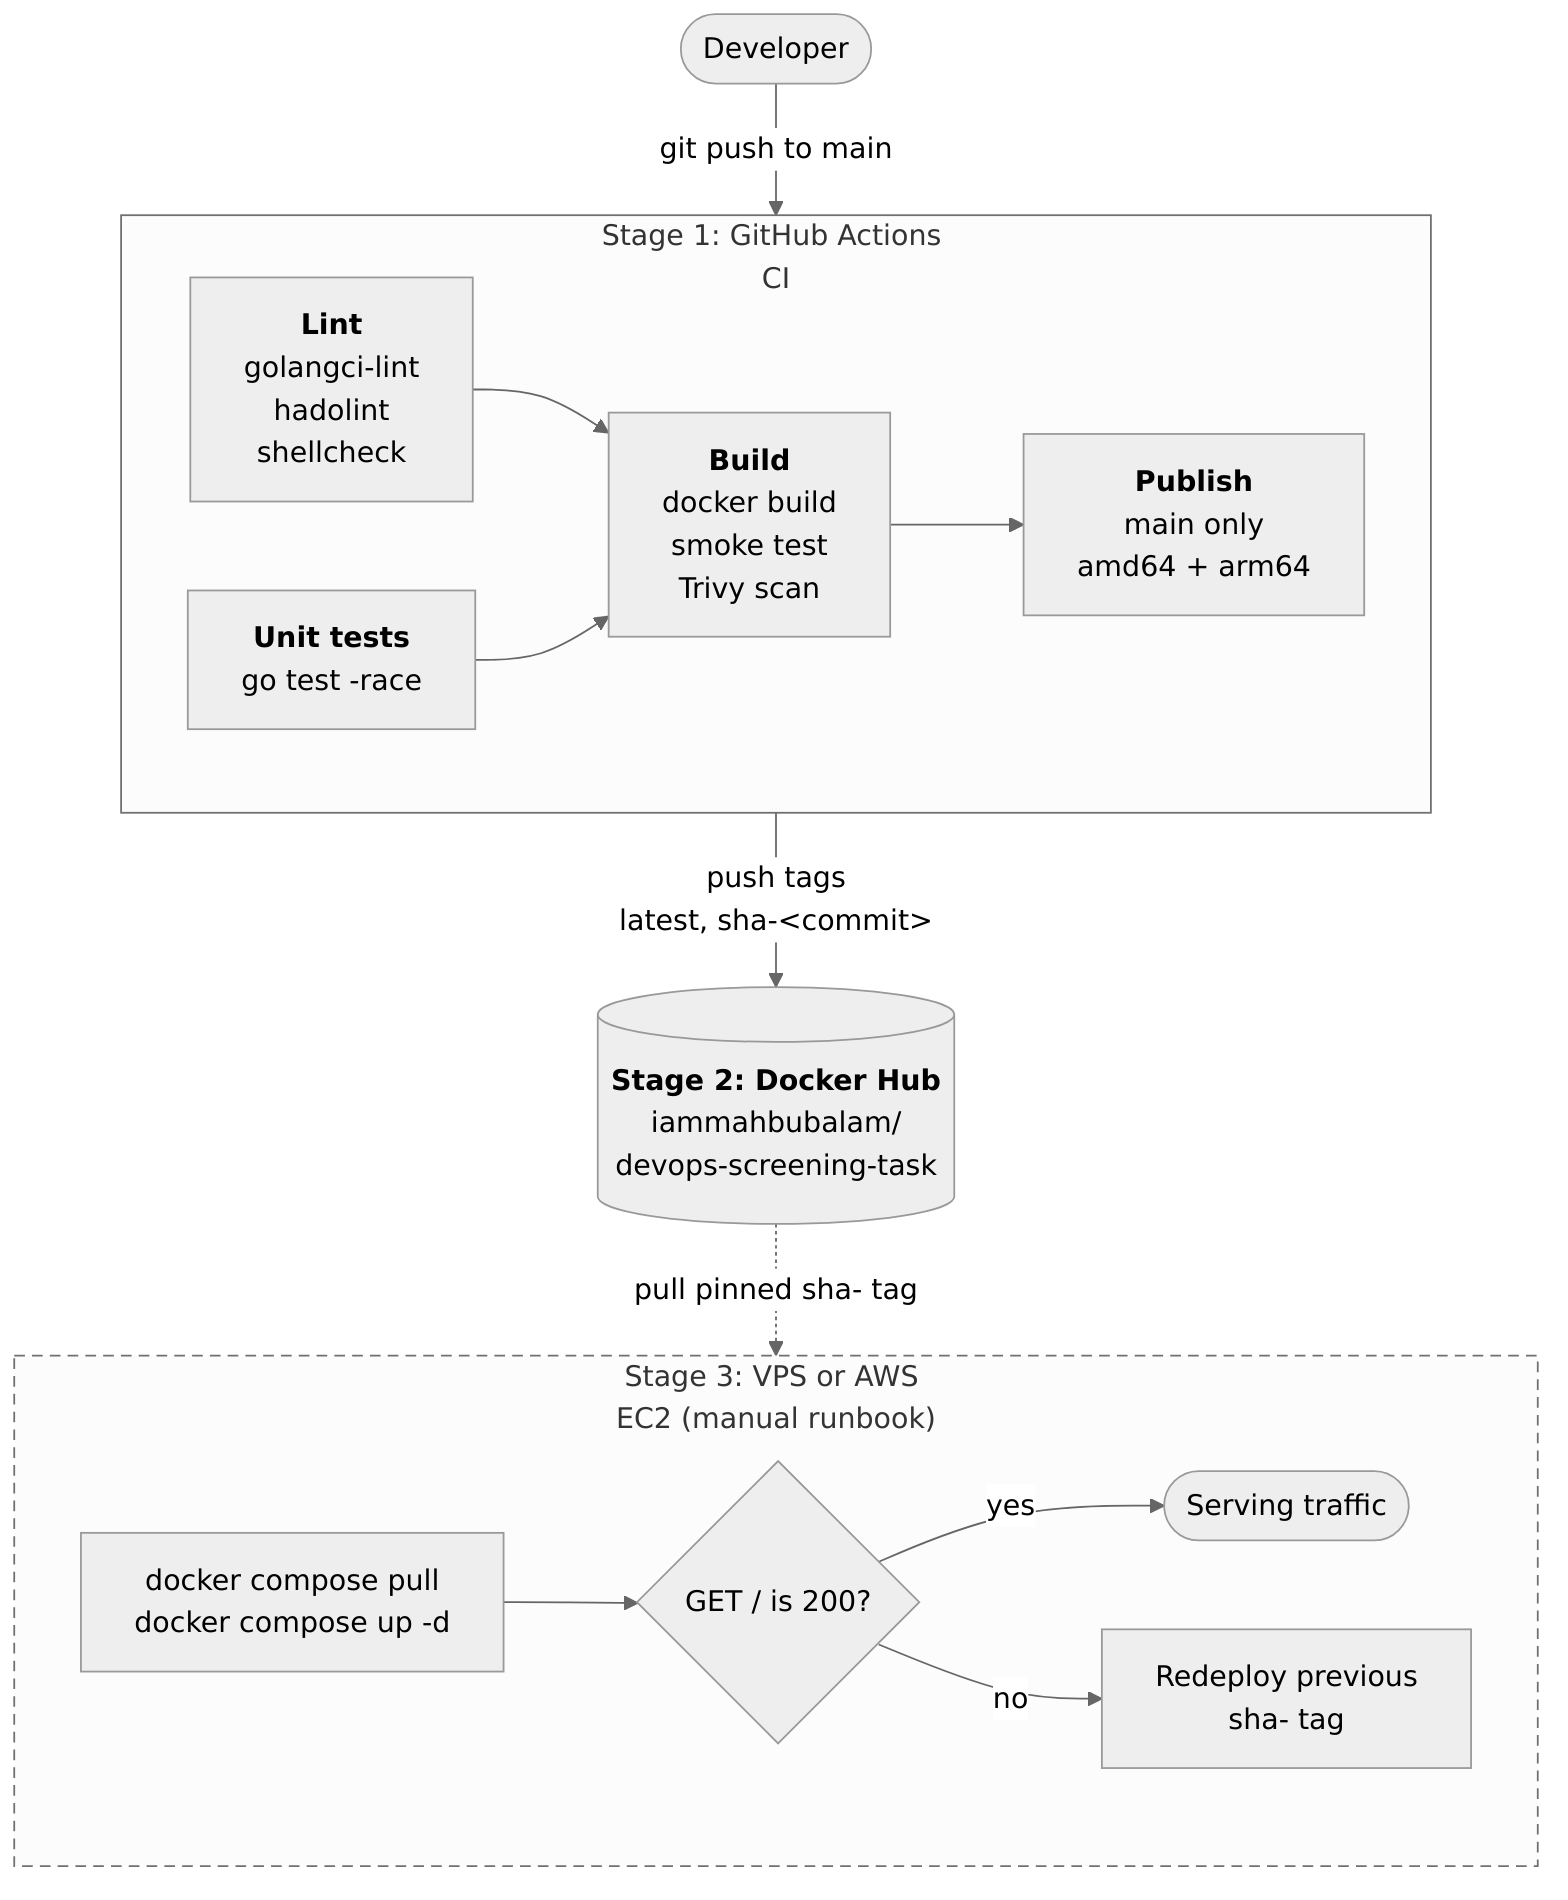
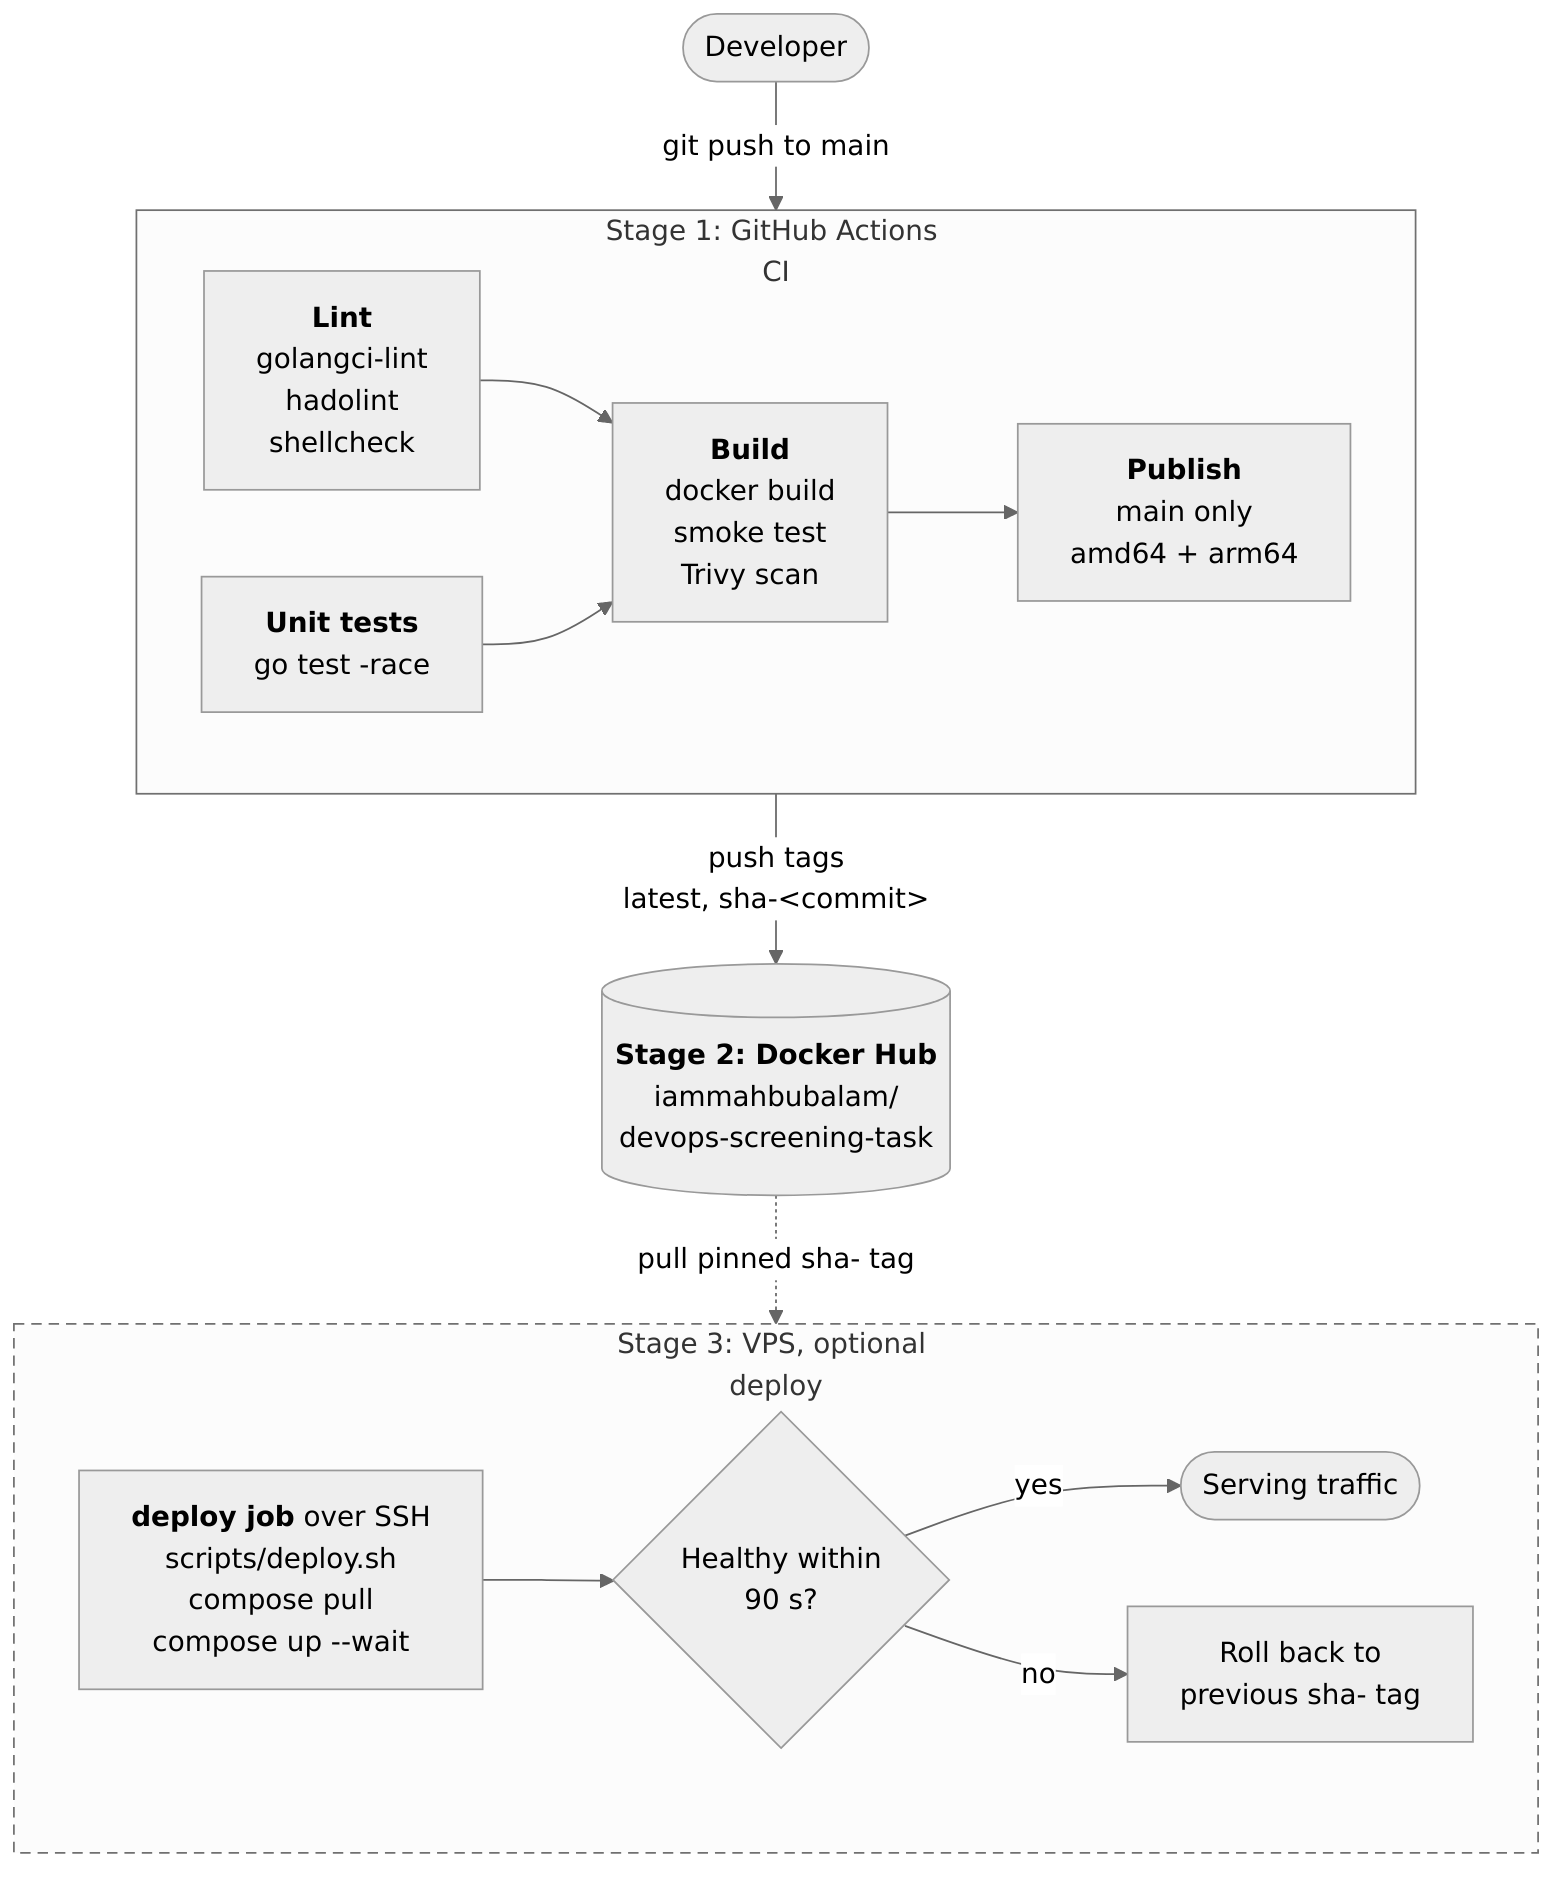
docs: document optional VPS deploy and update pipeline diagram
Adds the setup steps, how rollback works and the limits (brief downtime,
HTTP only, docker group access). Shortens the AWS answer to three bullets.

diff --git a/README.md b/README.md
@@ -20,6 +20,7 @@ It is my submission for the Care Guide DevOps screening task.
 | Diagram: commit → CI → Docker Hub → VPS | [CI/CD pipeline](#cicd-pipeline) |
 | `system_health.sh` writing `health_log.txt`, warning above 80% disk | [scripts/system_health.sh](scripts/system_health.sh) |
 | How I would deploy to AWS | [Deploying to AWS EC2 or a VPS](#deploying-to-aws-ec2-or-a-vps) |
+| Extra, not required: automatic deploy to a VPS over SSH, off by default | [Optional: deploy to a VPS](#optional-deploy-to-a-vps-over-ssh), [scripts/deploy.sh](scripts/deploy.sh), [docker-compose.prod.yml](docker-compose.prod.yml) |
 
 ## Repository layout
 
@@ -34,10 +35,12 @@ It is my submission for the Care Guide DevOps screening task.
 │   └── *_test.go            unit tests
 ├── scripts/
 │   ├── system_health.sh     host health check (Step 3)
-│   └── smoke_test.sh        runs the image and checks the response (used by CI)
+│   ├── smoke_test.sh        runs the image and checks the response (used by CI)
+│   └── deploy.sh            runs on the server: start a tag, health-check it, roll back (optional deploy)
 ├── docs/pipeline.png        pipeline diagram as an image
 ├── Dockerfile
-├── docker-compose.yml
+├── docker-compose.yml       local run, builds the image from source
+├── docker-compose.prod.yml  server run, pulls the image from Docker Hub (optional deploy)
 └── Makefile                 shortcuts for the commands below
 ```
 
@@ -151,12 +154,12 @@ flowchart TB
 
     hub -.->|"pull pinned sha- tag"| vps
 
-    subgraph vps["Stage 3: VPS or AWS EC2 (manual runbook)"]
+    subgraph vps["Stage 3: VPS, optional deploy"]
         direction LR
-        deploy["docker compose pull<br/>docker compose up -d"]
-        check{"GET / is 200?"}
+        deploy["<b>deploy job</b> over SSH<br/>scripts/deploy.sh<br/>compose pull<br/>compose up --wait"]
+        check{"Healthy within<br/>90 s?"}
         live(["Serving traffic"])
-        rollback["Redeploy previous<br/>sha- tag"]
+        rollback["Roll back to<br/>previous sha- tag"]
         deploy --> check
         check -->|yes| live
         check -->|no| rollback
@@ -165,9 +168,9 @@ flowchart TB
     style vps stroke-dasharray: 6 4
 ```
 
-Stages 1 and 2 are automated in [ci.yml](.github/workflows/ci.yml). Stage 3 is drawn dashed because it is a manual step today. The [deployment section](#deploying-to-aws-ec2-or-a-vps) describes how I would automate it.
+Stages 1 and 2 are what the task asks for, and they run on every push to `main`. Stage 3 is drawn dashed because it is an optional extra: it runs only when a server is connected and the repository variable `DEPLOY_ENABLED` is `true`. [Setup is described below](#optional-deploy-to-a-vps-over-ssh).
 
-**Triggers.** Every push to `main` runs all four jobs and publishes the image. Pull requests into `main` run the same checks but skip `publish`, so nothing reaches Docker Hub before review.
+**Triggers.** Every push to `main` runs the four jobs below and publishes the image. Pull requests into `main` run the same checks but skip `publish`, so nothing reaches Docker Hub before review.
 
 | Job | What it does | What it catches |
 |---|---|---|
@@ -175,10 +178,11 @@ Stages 1 and 2 are automated in [ci.yml](.github/workflows/ci.yml). Stage 3 is d
 | `test` | `go test -race -cover` | Wrong responses and routing, data races, broken shutdown |
 | `build` | Builds the image, runs [smoke_test.sh](scripts/smoke_test.sh), scans with Trivy | Images that fail to build, run as root, or don't return the JSON, and HIGH or CRITICAL CVEs that have a fix |
 | `publish` | Builds for amd64 and arm64, then pushes `latest` and `sha-<commit>` with an SBOM and provenance | Runs only on `main`, and only after the three jobs above pass |
+| `deploy` (optional) | Copies the compose file and [deploy.sh](scripts/deploy.sh) to the server over SSH and runs it | Skipped unless `DEPLOY_ENABLED` is `true`, so it never turns the pipeline red on a repo without a server |
 
 Choices in the workflow:
 
-- **Least privilege.** The workflow token can only read the repo, and only the `publish` job sees the Docker Hub token.
+- **Least privilege.** The workflow token can only read the repo. Only the `publish` job sees the Docker Hub token, and only the `deploy` job sees the SSH key.
 - **Pinned actions.** Every third-party action is pinned to a full commit SHA, not a tag, because tags can be moved to other code. That happened in the tj-actions/changed-files compromise in March 2025. Dependabot opens weekly PRs to update the SHAs, the base image digests and Go.
 - **Two image tags.** `sha-<commit>` never changes. A deploy pins it, so every running container maps to one commit and a rollback means redeploying the previous tag. `latest` is only there for convenience.
 - **Fast rebuilds.** Layers are cached in the GitHub Actions cache, so `publish` reuses the amd64 layers that `build` just made.
@@ -245,13 +249,78 @@ $ make
 
 ## Deploying to AWS EC2 or a VPS
 
-- **Provision the host as code.** I would use Terraform to create one `t4g.small` instance. That is AWS Graviton (arm64), which the image already supports, and it costs about 20% less than the matching x86 `t3`. Cloud-init user data installs Docker on first boot. The security group opens only ports 80 and 443. There is no SSH port: admin access goes through AWS Systems Manager Session Manager, using an IAM instance role, so there are no SSH keys to manage or leak.
-- **Deploy from CI with no stored cloud keys.** I would add a `deploy` job after `publish`. It assumes a narrowly scoped IAM role through GitHub OIDC, so the repo holds no long-lived AWS keys. Then it uses SSM `send-command` to run `IMAGE_TAG=sha-<commit> docker compose pull && docker compose up -d` on the instance. Deploying the unchangeable `sha-` tag instead of `latest` means I always know which commit is live, and a rollback is the same command with the previous tag.
-- **Put a safety net around it.** Caddy runs in front of the app as a reverse proxy and gets TLS certificates automatically. It listens on 443 and forwards to the container, which is not exposed publicly. After each deploy, the job polls `GET /` and redeploys the previous tag if the check fails. Container logs go to CloudWatch through the `awslogs` log driver, and `system_health.sh` runs from cron so disk and memory problems show up early. If this ever needs high availability, the next step is ECS Fargate behind an Application Load Balancer, not more hand-run servers.
+- **Ship one exact version.** CI pushes an immutable `sha-<commit>` tag, and the server pulls that tag, never `latest`. Every running container then maps to one commit, and a rollback is a redeploy of the previous tag. The optional `deploy` job below does this.
+- **Keep the host small and closed.** One EC2 `t4g.small` (Graviton, which the multi-arch image already supports, about 20% cheaper than the matching x86 instance), created with Terraform. Cloud-init installs Docker. The security group allows only port 80 or 443, plus SSH from my own IP. In a real AWS setup I would drop SSH keys entirely: GitHub OIDC assumes a scoped IAM role, and SSM runs the deploy command.
+- **Make a bad release harmless.** A deploy counts as done only when the container's health check passes, and otherwise the previous tag comes back automatically. Logs are rotated so they cannot fill the disk, and `system_health.sh` runs from cron to catch disk and memory trouble early. When one server is no longer enough, the next step is ECS Fargate behind an Application Load Balancer, not more hand-run servers.
+
+## Optional: deploy to a VPS over SSH
+
+This goes beyond the task. A server is not needed to review the repo: with no server connected, the `deploy` job is skipped and everything above stays green.
+
+When enabled, the job runs after `publish`. It copies [docker-compose.prod.yml](docker-compose.prod.yml) and [deploy.sh](scripts/deploy.sh) to the server and runs the script with the new `sha-` tag. The script then:
+
+1. pulls the image. If that fails (wrong tag, registry down), it stops and the running release is untouched;
+2. starts the new container with `docker compose up --wait`, which waits for the image's own health check;
+3. on success, records the tag in `.env`, deletes image tags older than the previous one, and exits 0;
+4. on failure, prints the container logs, restarts the previous tag, and exits 1, so the job is red but the site stays up.
+
+**Set it up**
+
+1. On a fresh Ubuntu server, as root. Open port 22 and port 80 in the provider's firewall (on AWS, the security group). Docker's published ports bypass `ufw`, so a host firewall is the wrong place for this.
+
+   ```bash
+   curl -fsSL https://get.docker.com | sh
+   adduser --disabled-password --gecos "" deploy
+   usermod -aG docker deploy
+   install -d -m 700 -o deploy -g deploy /home/deploy/.ssh
+   ```
+
+2. On your machine, make a key used for nothing else, and put the public half on the server:
+
+   ```bash
+   ssh-keygen -t ed25519 -N "" -f deploy_key -C github-actions-deploy
+   cat deploy_key.pub
+   ```
+
+   Then on the server, as root, paste that line in:
+
+   ```bash
+   echo '<the line printed above>' >> /home/deploy/.ssh/authorized_keys
+   chown deploy:deploy /home/deploy/.ssh/authorized_keys && chmod 600 /home/deploy/.ssh/authorized_keys
+   ```
+
+3. Give GitHub what it needs, then delete the local copy of the private key:
+
+   ```bash
+   gh secret set SSH_HOST --body <server-ip-or-hostname>
+   gh secret set SSH_USER --body deploy
+   gh secret set SSH_PRIVATE_KEY < deploy_key
+   ssh-keyscan <server-ip-or-hostname> | gh secret set SSH_KNOWN_HOSTS
+   gh variable set DEPLOY_ENABLED --body true
+   rm deploy_key deploy_key.pub
+   ```
+
+   `SSH_KNOWN_HOSTS` pins the server's host key. If the key ever differs, the job fails instead of connecting to an impostor. For a non-standard SSH port, also run `gh variable set SSH_PORT --body <port>` and use `ssh-keyscan -p <port>`.
+
+4. Push to `main`. When the `deploy` job is green, `curl http://<server-ip>/` returns the JSON.
+
+**Roll back by hand.** On the server, run the script with an older tag:
+
+```bash
+cd ~/devops-screening-task
+IMAGE_REPO=docker.io/iammahbubalam/devops-screening-task IMAGE_TAG=sha-<older-commit> ./deploy.sh
+```
+
+**Limits, stated plainly**
+
+- **Brief downtime per deploy.** One container is replaced by another, so requests fail for a few seconds. Zero downtime needs two instances behind a proxy, which is more than this service needs.
+- **HTTP only.** TLS would mean a domain name and a reverse proxy such as Caddy in front of the container.
+- **The deploy user can control Docker**, which is equivalent to root on that machine. Use a dedicated server, or rootless Docker or the SSM approach above for anything serious.
+- **What I tested.** `deploy.sh` ran against a local registry for four cases: a good deploy, a second deploy, a broken image that rolled back, and a missing tag. The workflow's SSH commands ran against a throwaway SSH server, including a wrong host key, which was refused. I have not run the job against a real cloud server, because none is attached to this repo.
 
 ## What I left out on purpose
 
 - **Kubernetes and Terraform code.** For a single stateless container they only add moving parts. The deployment notes above say where each would come in.
-- **An automated deploy job.** The task asks for CI and for a description of the deployment. A live server that might be down while someone reviews this would prove less than a pipeline that works every time.
+- **Deploy switched on by default.** The task asks for CI and a description of the deployment. A live server that might be down while someone reviews this would prove less than a pipeline that works every time, so deployment is opt-in.
 - **A `/healthz` endpoint.** The task asks for a single endpoint, and `/` already works as the health check.
 - **Third-party Go packages.** The standard library covers routing, JSON, logging and graceful shutdown, so there are no dependencies to patch.
